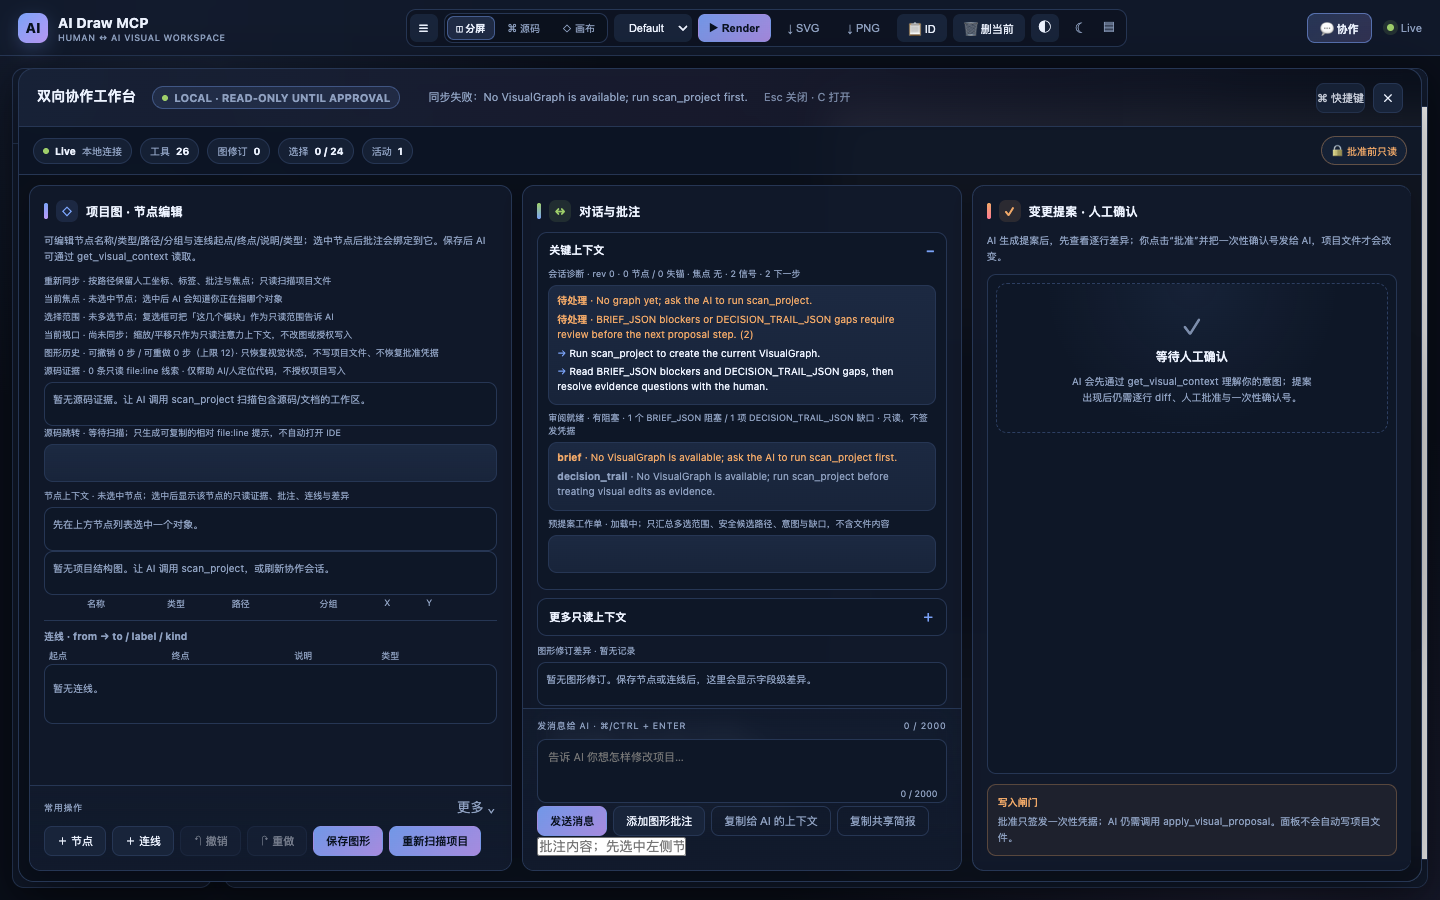
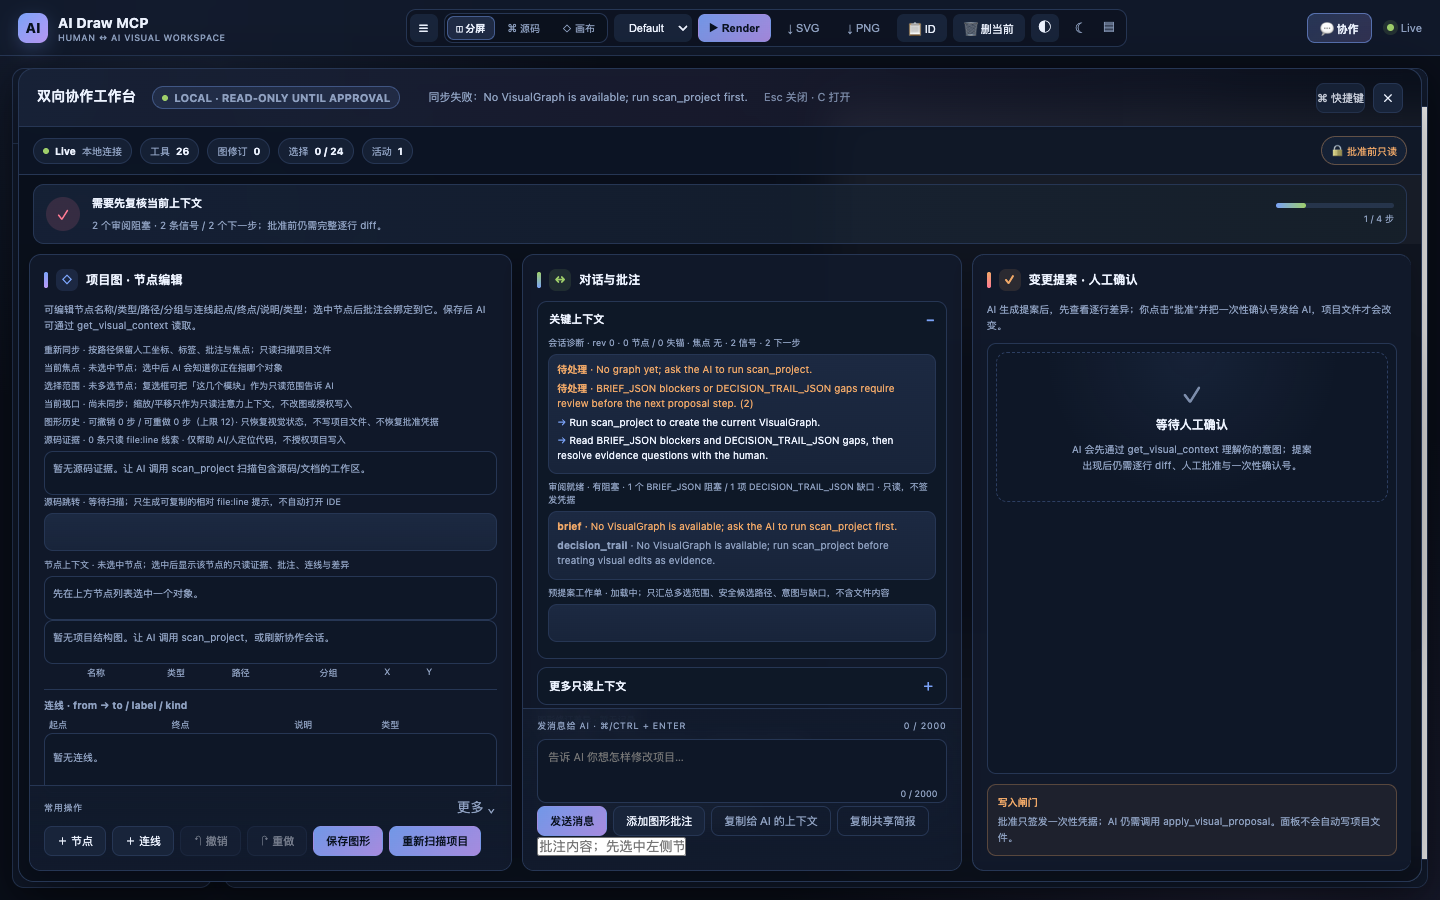
feat: add derived collaboration health card

diff --git a/src/infra/templates/index.html b/src/infra/templates/index.html
@@ -326,6 +326,20 @@
     .overview-stat strong { color: var(--text); font-size: 10px; }
     .overview-stat .pulse { width: 6px; height: 6px; border-radius: 50%; background: var(--green); }
     .overview-stat.safety { margin-left: auto; border-color: rgba(240,168,104,.35); color: var(--orange); }
+    .health-card {
+      display: grid; grid-template-columns: auto 1fr auto; align-items: center; gap: 12px;
+      margin: 9px 14px 0; padding: 10px 12px; border: 1px solid var(--border);
+      border-radius: 11px; background: linear-gradient(90deg, rgba(122,162,247,.08), rgba(158,206,106,.04)), rgba(14,23,39,.72);
+    }
+    .health-orb { width: 34px; height: 34px; display: grid; place-items: center; border-radius: 50%; background: rgba(158,206,106,.14); color: var(--green); font-size: 15px; }
+    .health-card.warning .health-orb { background: rgba(240,168,104,.14); color: var(--orange); }
+    .health-card.blocked .health-orb { background: rgba(255,122,147,.14); color: var(--red); }
+    .health-main strong { display: block; font-size: 11px; margin-bottom: 3px; }
+    .health-main span { color: var(--text-muted); font-size: 10px; line-height: 1.45; }
+    .health-progress { width: 118px; }
+    .health-progress-track { height: 5px; border-radius: 999px; background: rgba(122,162,247,.16); overflow: hidden; }
+    .health-progress-fill { height: 100%; width: 0; border-radius: 999px; background: linear-gradient(90deg, var(--accent), var(--green)); transition: width .25s ease; }
+    .health-progress span { display: block; margin-top: 4px; color: var(--text-muted); font-size: 9px; text-align: right; }
     .collab-tabs { display: none; gap: 6px; padding: 9px 10px 0; }
     .collab-tab {
       flex: 1; padding: 8px 10px; border: 1px solid var(--border); border-radius: 9px 9px 0 0;
@@ -659,6 +673,11 @@
     <span class="overview-stat">选择 <strong id="overviewSelection">0 / 24</strong></span>
     <span class="overview-stat">活动 <strong id="overviewActivity">0</strong></span>
     <span class="overview-stat safety">🔒 批准前只读</span>
+  </div>
+  <div class="health-card" id="collabHealth">
+    <span class="health-orb" aria-hidden="true">✓</span>
+    <div class="health-main"><strong id="healthTitle">协作状态载入中</strong><span id="healthDetail">正在读取只读诊断、审阅就绪与下一步动作。</span></div>
+    <div class="health-progress"><div class="health-progress-track"><div class="health-progress-fill" id="healthProgressFill"></div></div><span id="healthProgressLabel">0 / 4 步</span></div>
   </div>
   <div class="collab-tabs" role="tablist" aria-label="协作工作区">
     <button class="collab-tab active" type="button" data-tab-target="graph" role="tab">◇ 项目图</button>
@@ -1554,6 +1573,7 @@ let collabCapabilities = null;
 let collabSelectionScope = null;
 let collabSelectionWorkorder = null;
 let collabViewport = null;
+let collabReviewReadiness = null;
 
 function escapeHtml(value) {
   return String(value ?? '').replace(/[&<>"']/g, (ch) => ({
@@ -1669,6 +1689,35 @@ function updateOverview() {
   if (revision) revision.textContent = Number.isFinite(collabRevision) ? String(collabRevision) : '—';
   if (selection) selection.textContent = `${selectedNodeIds.length} / 24`;
   if (activity) activity.textContent = String((collabGraph?.annotations?.length || 0) + (collabGraph?.messages?.length || 0));
+  renderHealthCard();
+}
+
+function renderHealthCard() {
+  const card = $('#collabHealth');
+  if (!card) return;
+  const signals = Array.isArray(collabDiagnostics?.signals) ? collabDiagnostics.signals : [];
+  const actions = Array.isArray(collabDiagnostics?.nextActions) ? collabDiagnostics.nextActions : [];
+  const blockers = (collabReviewReadiness?.brief?.blockers?.length ?? 0) + (collabReviewReadiness?.decisionTrail?.gaps?.length ?? 0);
+  const stale = Boolean(collabSelectionWorkorder?.freshness?.selectionStale);
+  const hasGraph = Boolean(collabGraph?.nodes?.length);
+  const hasSelection = selectedNodeIds.length > 0;
+  const hasProposal = Boolean(collabSharedBrief?.proposal || collabReviewReadiness);
+  const steps = [hasGraph, hasSelection, hasProposal, blockers === 0 && !stale].filter(Boolean).length;
+  const state = stale || blockers > 0 ? 'blocked' : actions.length ? 'warning' : 'ready';
+  card.classList.toggle('warning', state === 'warning');
+  card.classList.toggle('blocked', state === 'blocked');
+  $('#healthTitle').textContent = state === 'blocked'
+    ? '需要先复核当前上下文'
+    : state === 'warning' ? '等待下一步人类 / AI 动作' : '协作上下文已就绪';
+  $('#healthDetail').textContent = stale
+    ? `选择已过期 · ${signals.length} 条信号 / ${actions.length} 个下一步；请清空并重新选择节点。`
+    : blockers > 0
+      ? `${blockers} 个审阅阻塞 · ${signals.length} 条信号 / ${actions.length} 个下一步；批准前仍需完整逐行 diff。`
+      : actions.length
+        ? `${actions[0]} · 所有上下文仍为只读，写入需人工批准。`
+        : '没有显式阻塞；批准前仍需完整逐行 diff、人工确认与一次性确认号。';
+  $('#healthProgressFill').style.width = `${steps * 25}%`;
+  $('#healthProgressLabel').textContent = `${steps} / 4 步`;
 }
 
 function localId(prefix) {
@@ -1870,6 +1919,7 @@ function renderSelectionWorkorder(workorder) {
   const freshnessClass = workorder.freshness?.selectionStale ? 'signal stale' : 'signal';
   const freshnessHtml = `<p class="${freshnessClass}">${escapeHtml(workorder.freshness?.hint || '选择新鲜度未知；请刷新面板并让人确认当前范围。')}</p>`;
   list.innerHTML = `${freshnessHtml}${pathsHtml}${gapsHtml}${nextHtml}`;
+  renderHealthCard();
 }
 
 async function copySelectionScope() {
@@ -2023,9 +2073,11 @@ function renderDiagnostics(diagnostics) {
   list.innerHTML = diagnostics
     ? `${signalHtml || '<p class="signal">暂无诊断信号。</p>'}${actionHtml}`
     : '<p class="signal">会话诊断不可用。</p>';
+  renderHealthCard();
 }
 
 function renderReviewReadiness(readiness) {
+  collabReviewReadiness = readiness;
   const summary = $('#reviewReadinessSummary');
   const list = $('#reviewReadinessList');
   if (!summary || !list) return;
@@ -2035,6 +2087,7 @@ function renderReviewReadiness(readiness) {
   summary.title = 'REVIEW_READINESS_JSON 派生自共享简报与决策链；它不批准变更，也不替代完整逐行 diff。';
   const pointHtml = points.slice(0, 8).map((point) => `<p class="signal ${point.severity === 'action' ? 'action' : ''}"><strong>${escapeHtml(point.source)}</strong> · ${escapeHtml(point.message)}</p>`).join('');
   list.innerHTML = pointHtml || '<p class="signal">暂无共享简报阻塞或决策链证据缺口；批准提案前仍须打开完整逐行 diff。</p>';
+  renderHealthCard();
 }
 
 function renderCapabilities(capabilities) {

diff --git a/CHANGELOG.md b/CHANGELOG.md
@@ -12,6 +12,7 @@ The format is based on [Keep a Changelog](https://keepachangelog.com/en/1.1.0/),
 
 ### Maintenance
 
+- 协作健康度（2026-11-06 10:20 CST）：工作台新增派生状态卡，汇总是否有结构图/选择范围/提案上下文、审阅阻塞、信号数、下一步动作与 stale 选择，并用 0/4–4/4 进度条说明「准备程度」而非写入许可；状态色在 stale 或阻塞时切换为警示色。全部数据来自已加载的只读诊断、审阅就绪与工作单 JSON，不新增接口、不持久化状态、不签发凭据或扩大写入边界；UI 回归与离线守卫覆盖状态卡。
 - 图表库交互（2026-11-06 10:15 CST）：侧栏新增搜索框、总数计数、类型图标、相对时间、空列表/无搜索结果提示和 `↑/↓ + Enter` 键盘导航；筛选只在本地对已加载的图表元数据执行，不请求额外接口，也不改变当前图或协作状态。UI 回归覆盖空列表引导与搜索控件，离线守卫覆盖图表库标记。
 - 外观偏好（2026-11-06 10:10 CST）：新增浅色 / 深色工作台主题与舒适 / 紧凑密度切换，偏好写入本机 localStorage；浅色主题重定义表面、边框、文本和预览背景，紧凑模式收紧间距与控件高度。切换只影响前端 CSS，不改 Mermaid 图主题、协作会话、工具契约或写入闸门；UI 回归验证主题/密度 class 切换与布局稳定。
 - 首次打开体验（2026-11-06 10:03 CST）：空白预览改为产品化欢迎卡，说明「AI 生成图 → 人修改批注 → AI 生成提案 → 人工批准后项目变化」闭环，列出 `1/2/3`、`C/Esc`、`F/0` 快捷键；「载入示例图形」只把 Mermaid 示例填入本机编辑器并渲染预览，不创建图记录、不改协作会话、不写项目文件。欢迎卡在真实图或 SVG 渲染后自动隐藏，源码视图下不显示；UI 回归验证示例渲染与图记录数量不变。
